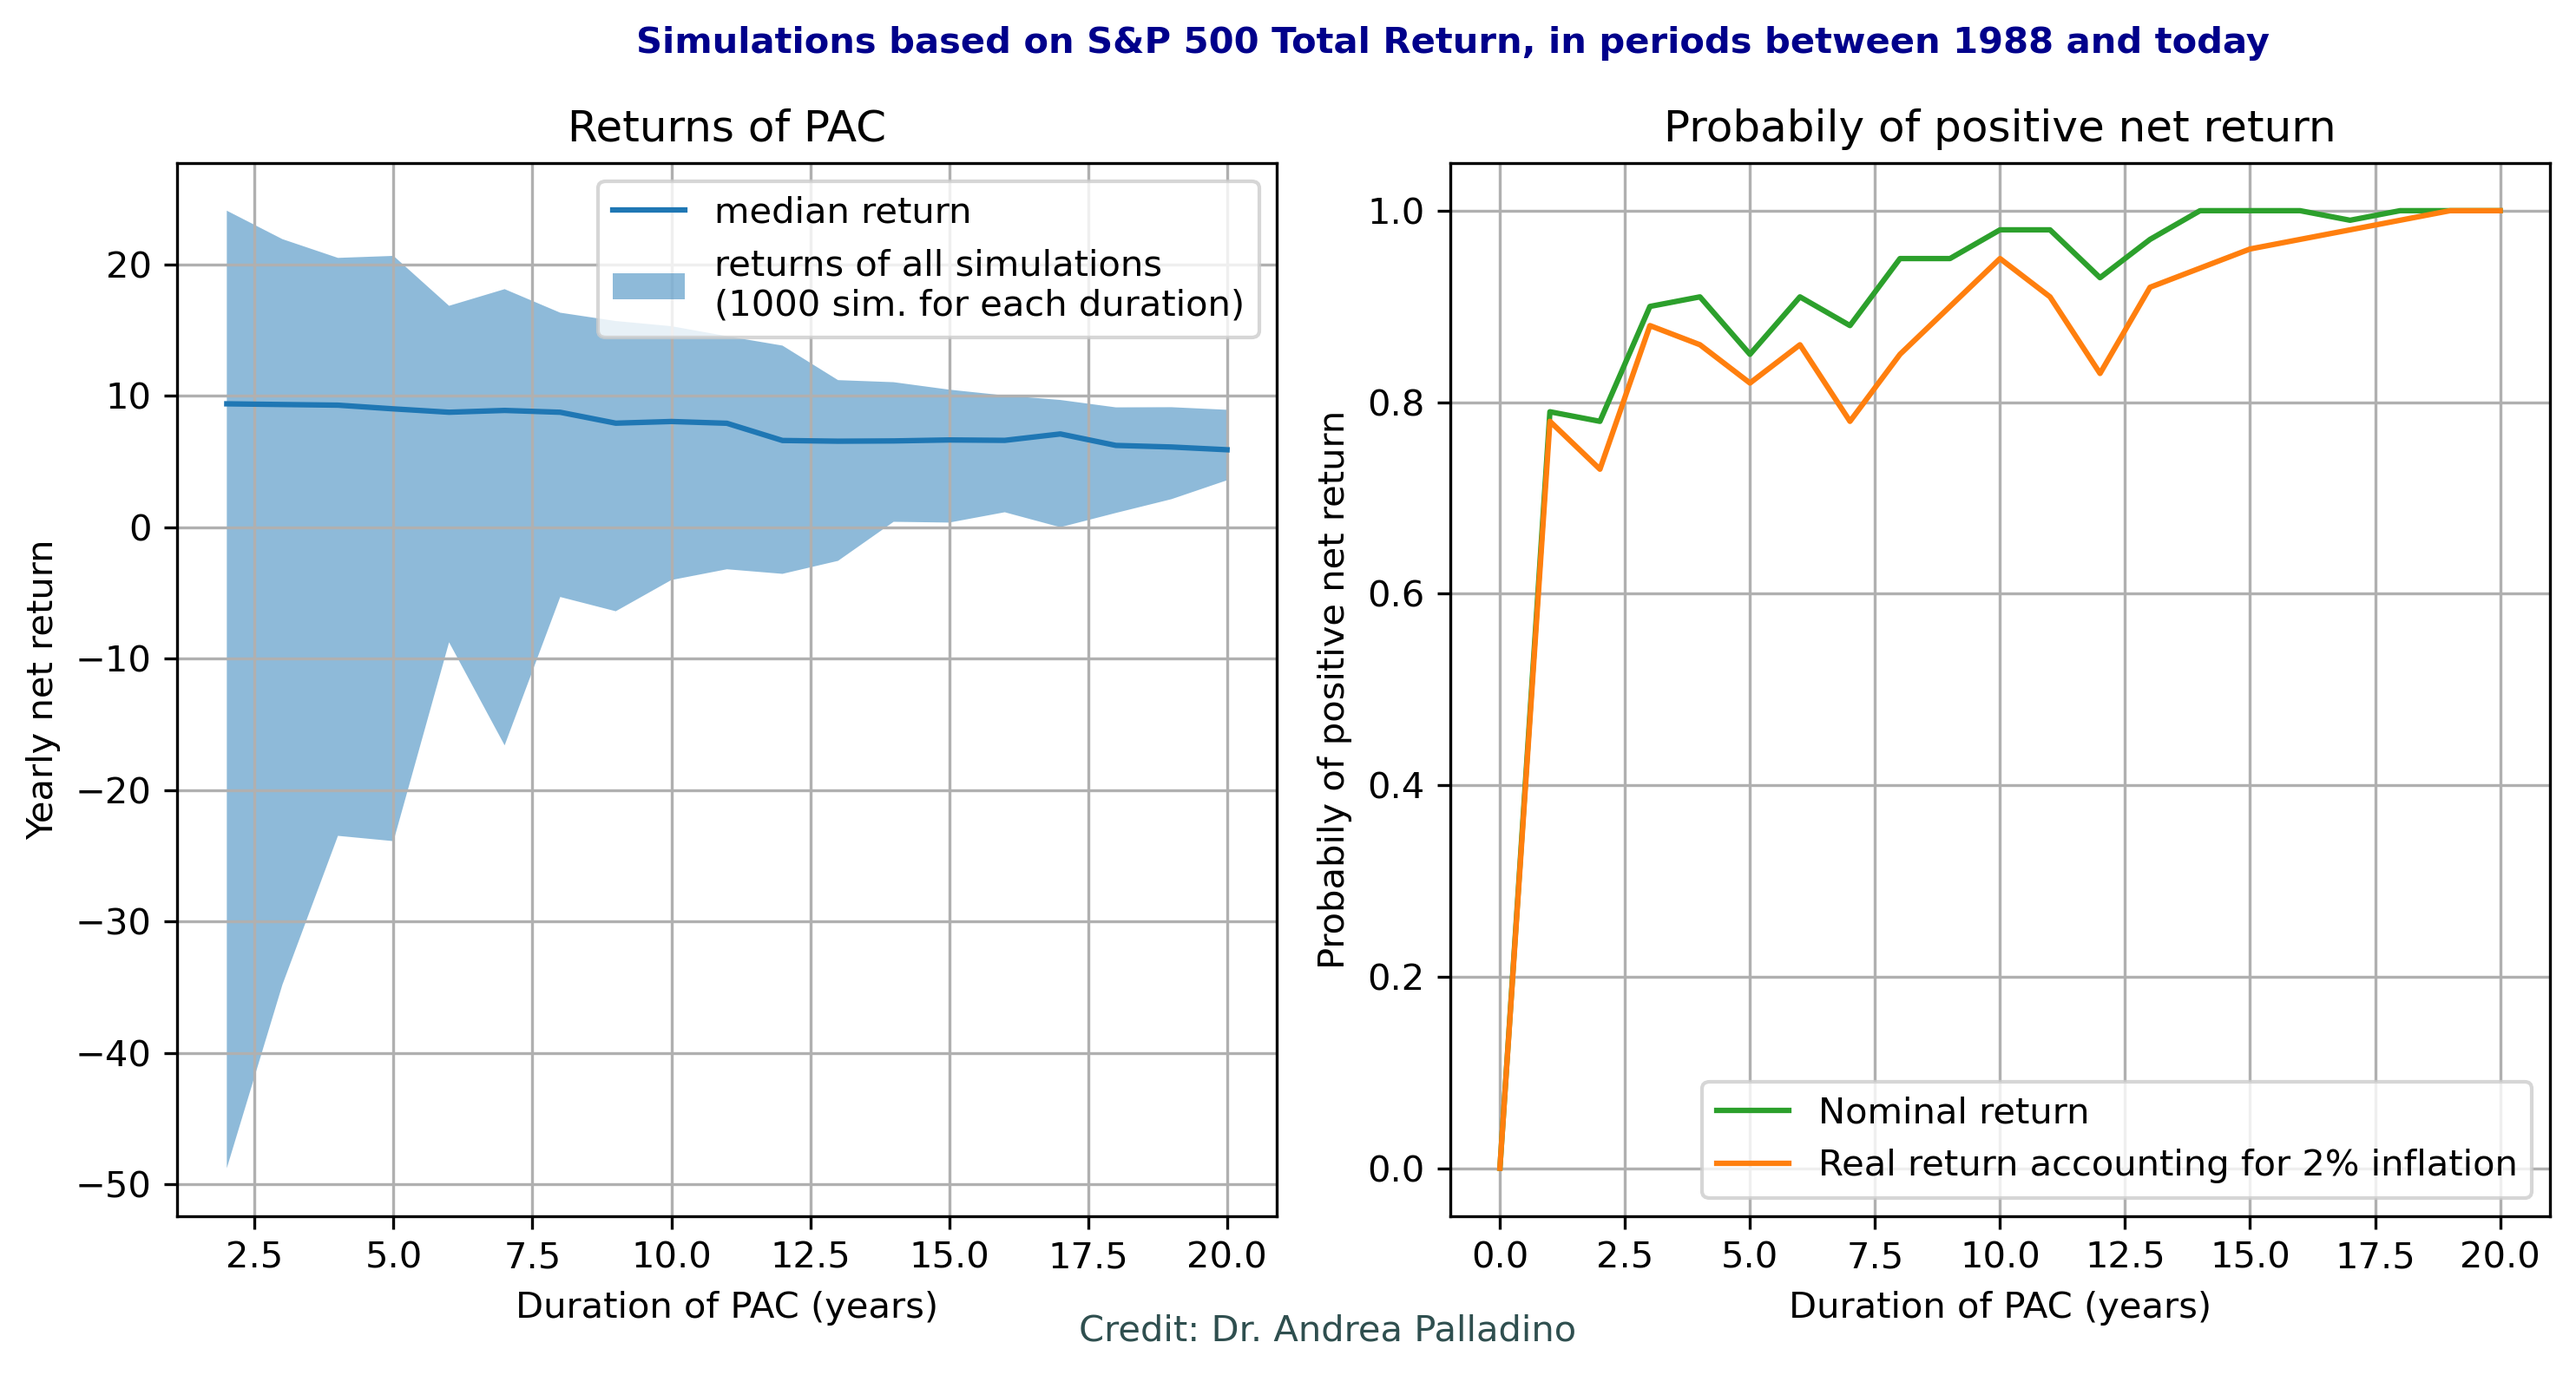
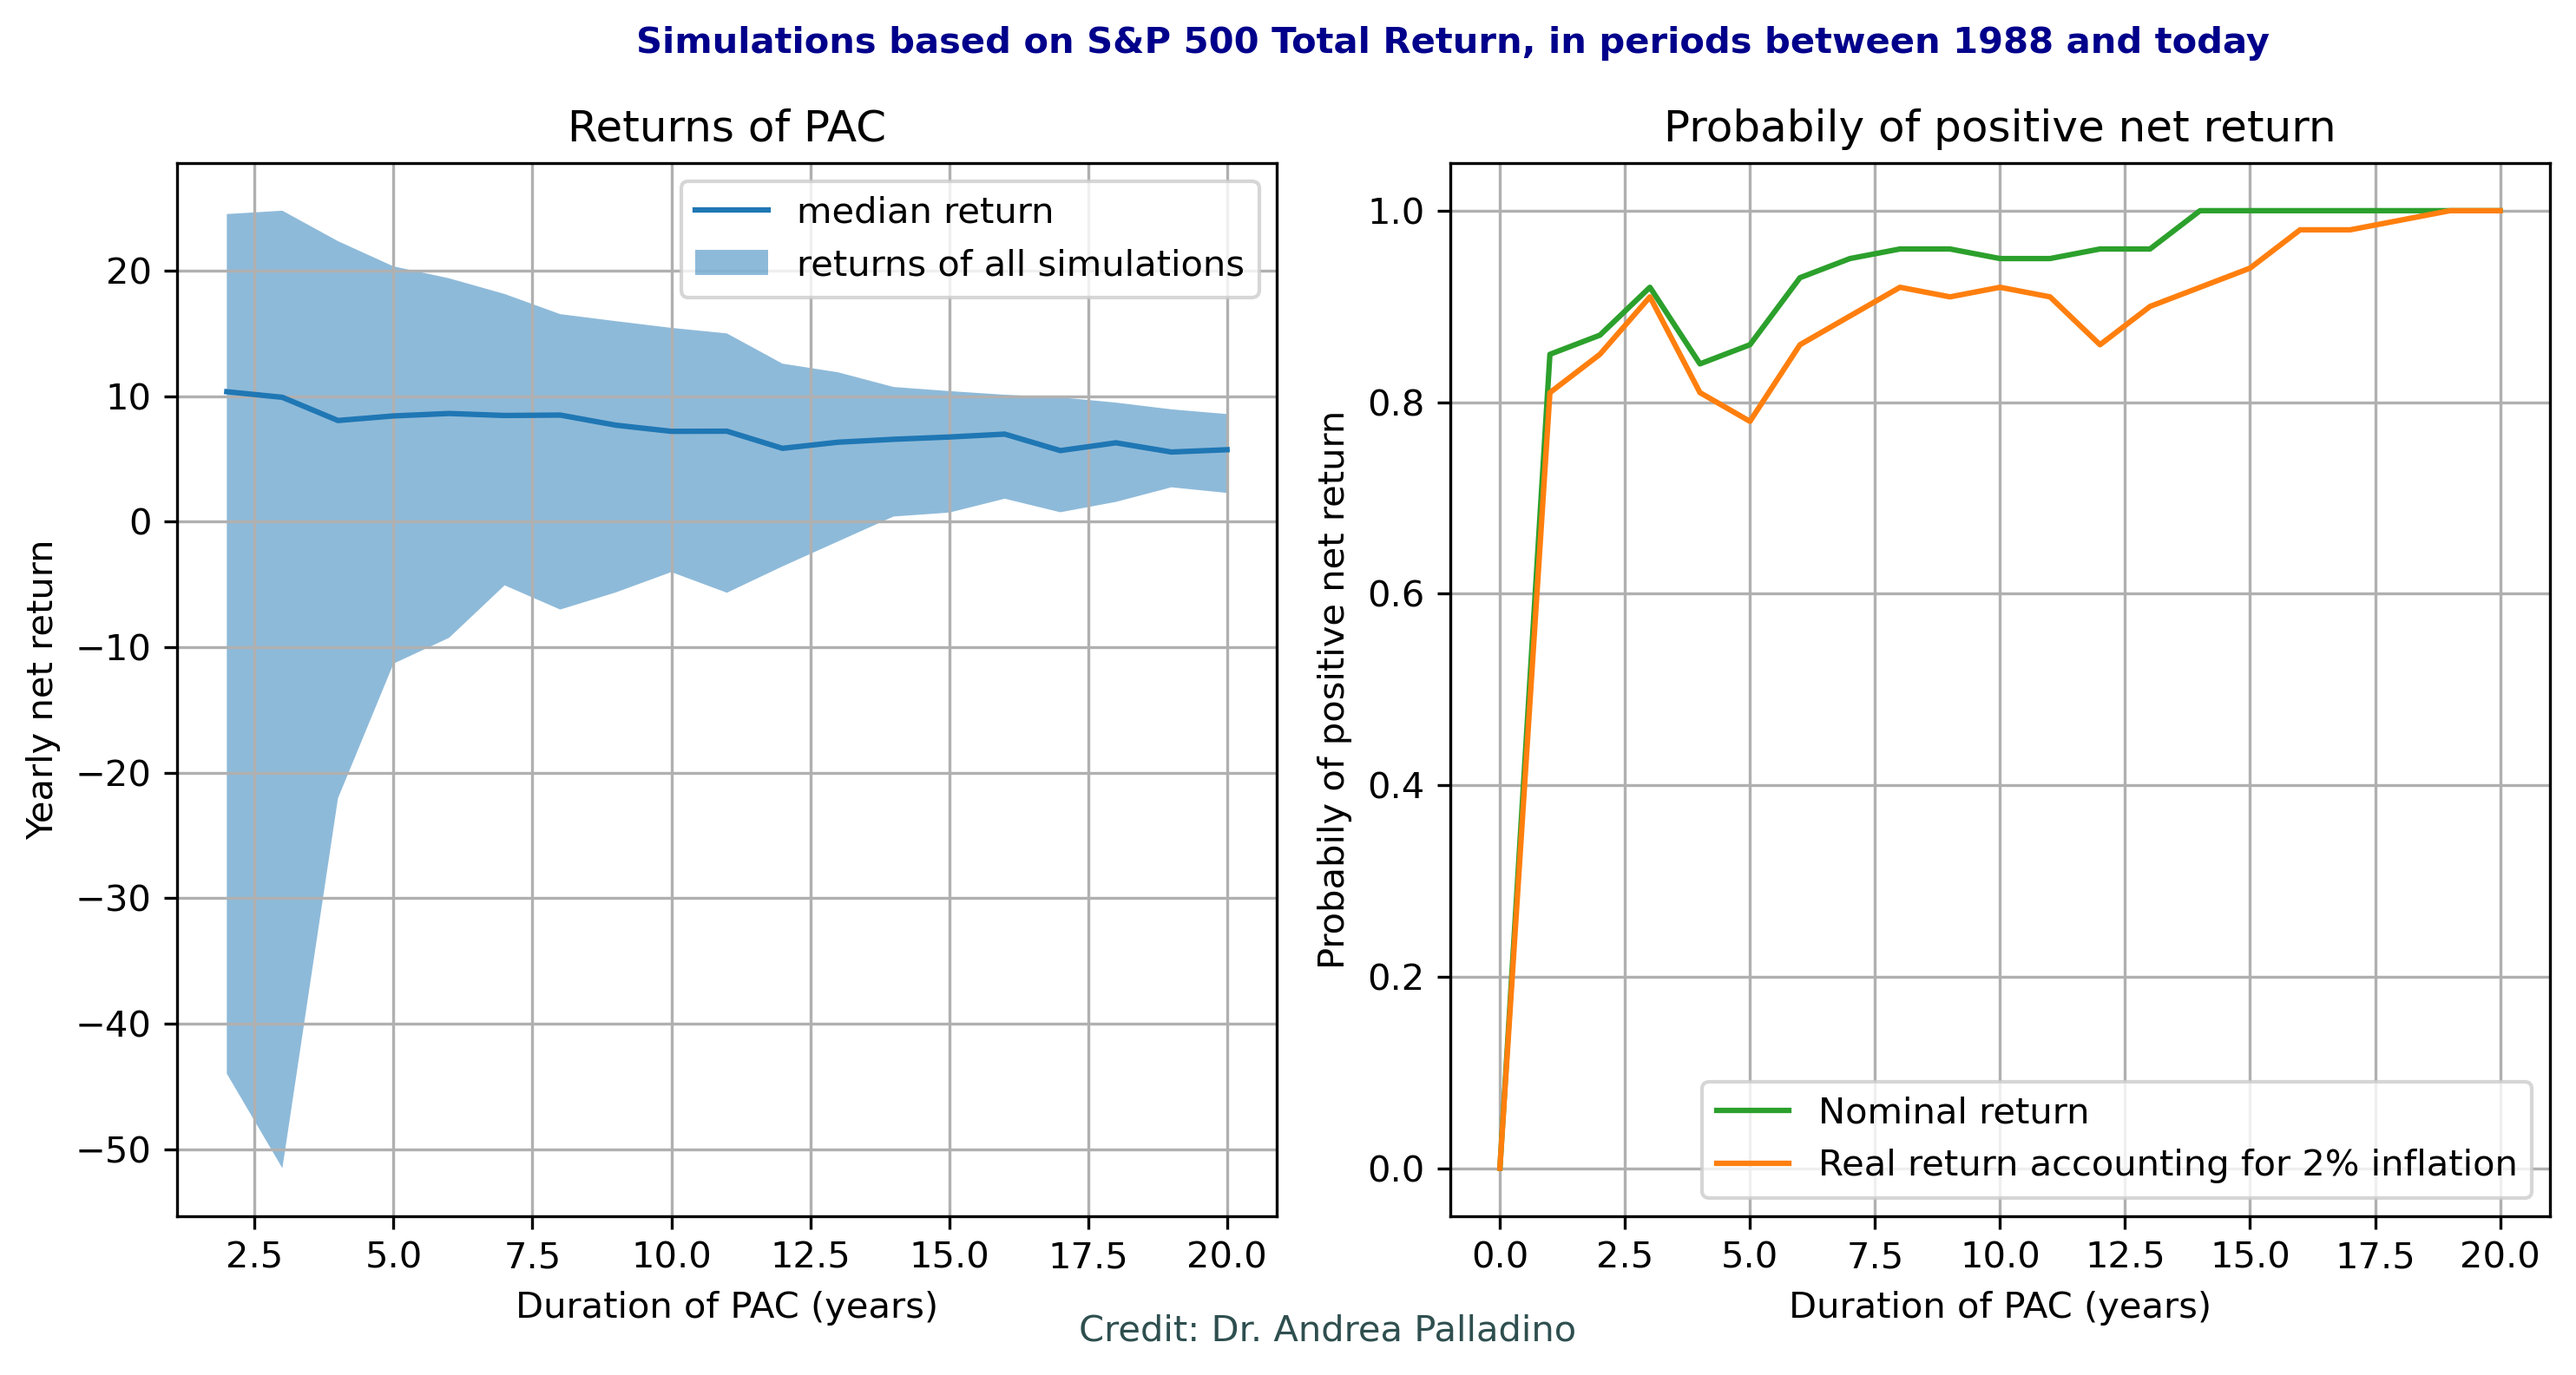
fix error in plot

diff --git a/src/plot.py b/src/plot.py
@@ -67,7 +67,7 @@ def show_results(years_grid, results, title, show_figure=True, save_figure=False
         results[1:, 1],
         results[1:, 0],
         alpha=0.5,
-        label="returns of all simulations \n(1000 sim. for each duration)",
+        label="returns of all simulations",
     )
     plt.grid()
     plt.ylabel("Yearly net return")
